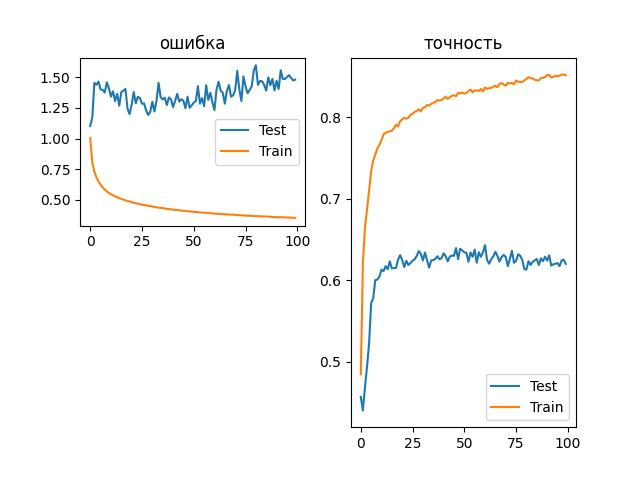
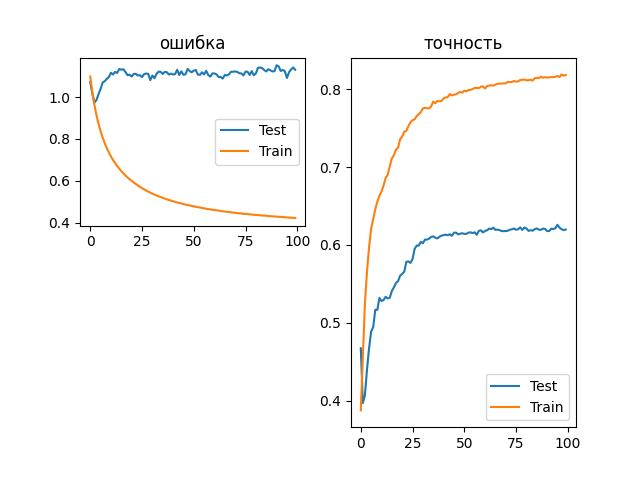
Свёрточная модель и некоторые эксперименты с LSTM

diff --git a/Conv1D_model.py b/Conv1D_model.py
@@ -30,42 +30,46 @@ import numpy as np
 # print(df.head())
 
 # Подгрузка данных
-train_worker1 = Worker('train.csv')
-train_worker2 = Worker('train_2.csv')
-train_worker3 = Worker('train_3corr.csv')
-test_worker = Worker('test.csv')
+# train_worker1 = Worker('train.csv')
+# train_worker2 = Worker('train_2.csv')
+# train_worker3 = Worker('train_3corr.csv')
+# test_worker = Worker('test.csv')
+train_worker0 = Worker('df_all_gen.csv')
+
 print('worker info')
-train_worker1.info()
-train_worker2.info()
-train_worker3.info()
+# train_worker1.info()
+# train_worker2.info()
+# train_worker3.info()
 columns = ['GGKP_korr', 'GK_korr', 'PE_korr', 'DS_korr', 'DTP_korr', 'Wi_korr', 'BK_korr', 'BMK_korr']
+x_data = train_worker0.get_x_data(columns)
+y_data_colls, y_data_rest = train_worker0.get_y_collektors()
 print('get data')
-x_train1 = train_worker1.get_x_data(columns)
-y_train_coll1, y_train_rest1 = train_worker1.get_y_collektors()
-
-x_train2 = train_worker2.get_x_data(columns)
-y_train_coll2, y_train_rest2 = train_worker2.get_y_collektors()
-
-x_train3 = train_worker3.get_x_data(columns)
-y_train_coll3, y_train_rest3 = train_worker3.get_y_collektors()
-
-x_val = test_worker.get_x_data(columns)
-y_val_coll, y_val_rest = test_worker.get_y_collektors()
+# x_train1 = train_worker1.get_x_data(columns)
+# y_train_coll1, y_train_rest1 = train_worker1.get_y_collektors()
+#
+# x_train2 = train_worker2.get_x_data(columns)
+# y_train_coll2, y_train_rest2 = train_worker2.get_y_collektors()
+#
+# x_train3 = train_worker3.get_x_data(columns)
+# y_train_coll3, y_train_rest3 = train_worker3.get_y_collektors()
+#
+# x_val = test_worker.get_x_data(columns)
+# y_val_coll, y_val_rest = test_worker.get_y_collektors()
 
 # Объединение и разбиение на обучающую и проверочную выборки
-print('before concat:', x_train1.shape,
-      x_train2.shape,
-      x_train3.shape,
-      y_train_coll1.shape,
-      y_train_coll2.shape,
-      y_train_coll3.shape)
-print(y_train_coll3[:2])
-
-x_data = np.concatenate([x_train1, x_train2, x_train3], axis=0)
-y_data_colls = np.concatenate([y_train_coll1, y_train_coll2, y_train_coll3], axis=0)
-y_data_rest = np.concatenate([y_train_rest1, y_train_rest2, y_train_rest3], axis=0)
+# print('before concat:', x_train1.shape,
+#       x_train2.shape,
+#       x_train3.shape,
+#       y_train_coll1.shape,
+#       y_train_coll2.shape,
+#       y_train_coll3.shape)
+# print(y_train_coll3[:2])
+#
+# x_data = np.concatenate([x_train1, x_train2, x_train3], axis=0)
+# y_data_colls = np.concatenate([y_train_coll1, y_train_coll2, y_train_coll3], axis=0)
+# y_data_rest = np.concatenate([y_train_rest1, y_train_rest2, y_train_rest3], axis=0)
 y_data = np.concatenate([y_data_colls, y_data_rest], axis=1)
-x_test, x_train, y_test, y_train = train_test_split(x_data, y_data, train_size=0.7, shuffle=False)
+x_test, x_train, y_test, y_train = train_test_split(x_data, y_data, train_size=0.3, shuffle=False)
 y_train_coll = y_train[:,:3]
 y_test_coll = y_test[:,:3]
 y_train_rest = y_train[:, 3:]
@@ -93,8 +97,8 @@ print(error_column_inx)
 
 # Параметры данных и эпохи обучения модели
 lenght = 20
-batch_size = 100
-epochs = 100
+batch_size = 500
+epochs = 150
 
 
 # Создание генератора, нормализация данных
@@ -117,22 +121,44 @@ Gen_test = Generator(x_test,
                      y_columns=[0], only_colls=True)
 Gen_test.add_error(error_column_inx, errors)
 Gen_test.normalize_test(norm_fit, norm_y_fit)
+Gen.info()
+Gen_test.info()
+# Создание модели
+# input_model = Input(shape=(lenght, len(x_columns)))
+# conv = Conv1D(32, 5, activation='relu', padding='same')(input_model)
+# batch_normalized1 = BatchNormalization()(conv)
+# max_pool = MaxPooling1D()(batch_normalized1)
+# # dropout1 = Dropout(0.2)(max_pool)
+# conv2 = Conv1D(16, 5, activation='relu', padding='same')(max_pool)
+# batch_normalized2 = BatchNormalization()(conv2)
+# max_pool = MaxPooling1D()(batch_normalized2)
+# conv3 = Conv1D(16, 5, activation='relu', padding='same')(max_pool)
+# flatten = Flatten()(max_pool)
 
 # Создание модели
 input_model = Input(shape=(lenght, len(x_columns)))
-conv = Conv1D(512, 3, activation='relu', padding='same')(input_model)
+conv = Conv1D(128, 4, activation='relu', padding='same')(input_model)
+conv2 = Conv1D(64, 4, activation='relu', padding='same')(input_model)
 batch_normalized1 = BatchNormalization()(conv)
-max_pool = MaxPooling1D()(batch_normalized1)
-flatten = Flatten()(max_pool)
-# dropout1 = Dropout(0.1)(batch_normalized1)
+max_pool1 = MaxPooling1D()(batch_normalized1)
+flatten1 = Flatten()(max_pool1)
+# dropout1 = Dropout(0.2)(max_pool)
+
+batch_normalized2 = BatchNormalization()(conv2)
+max_pool2 = MaxPooling1D()(batch_normalized2)
+flatten2 = Flatten()(max_pool2)
+concat = concatenate([flatten1, flatten2])
+# conv3 = Conv1D(16, 5, activation='relu', padding='same')(max_pool)
+
+# dropout1 = Dropout(0.3)(flatten)
 # flatten = Flatten()(dropout1)
-# dense = Dense(1024, activation='linear')(flatten)
+# dense = Dense(128, activation='relu')(dropout1)
 # batch_normalized2 = BatchNormalization()(dense)
 # dropout2 = Dropout(0.3)(batch_normalized2)
-output_coll = Dense(3, activation='softmax')(flatten)
+output_coll = Dense(3, activation='softmax')(concat)
 
 # Путь сохранения модели и графиков
-model_name = 'Conv1d_simple_n20'
+model_name = 'Conv1d_parallel_n20'
 folder = 'data/'
 model_folder = folder + 'models/'
 graph_folder = folder + 'graphs/'

diff --git a/LSTM_model.py b/LSTM_model.py
@@ -120,7 +120,9 @@ Gen_test.normalize_test(norm_fit, norm_y_fit)
 
 # Создание модели
 input_model = Input(shape=(lenght, len(x_columns)))
-lstm = LSTM(512, return_sequences=True)(input_model)
+lstm = LSTM(64, return_sequences=True)(input_model)
+lstm = LSTM(64, return_sequences=True)(lstm)
+lstm = LSTM(64, return_sequences=True)(lstm)
 batch_normalized1 = BatchNormalization()(lstm)
 flatten = Flatten()(batch_normalized1)
 # dropout1 = Dropout(0.1)(batch_normalized1)
